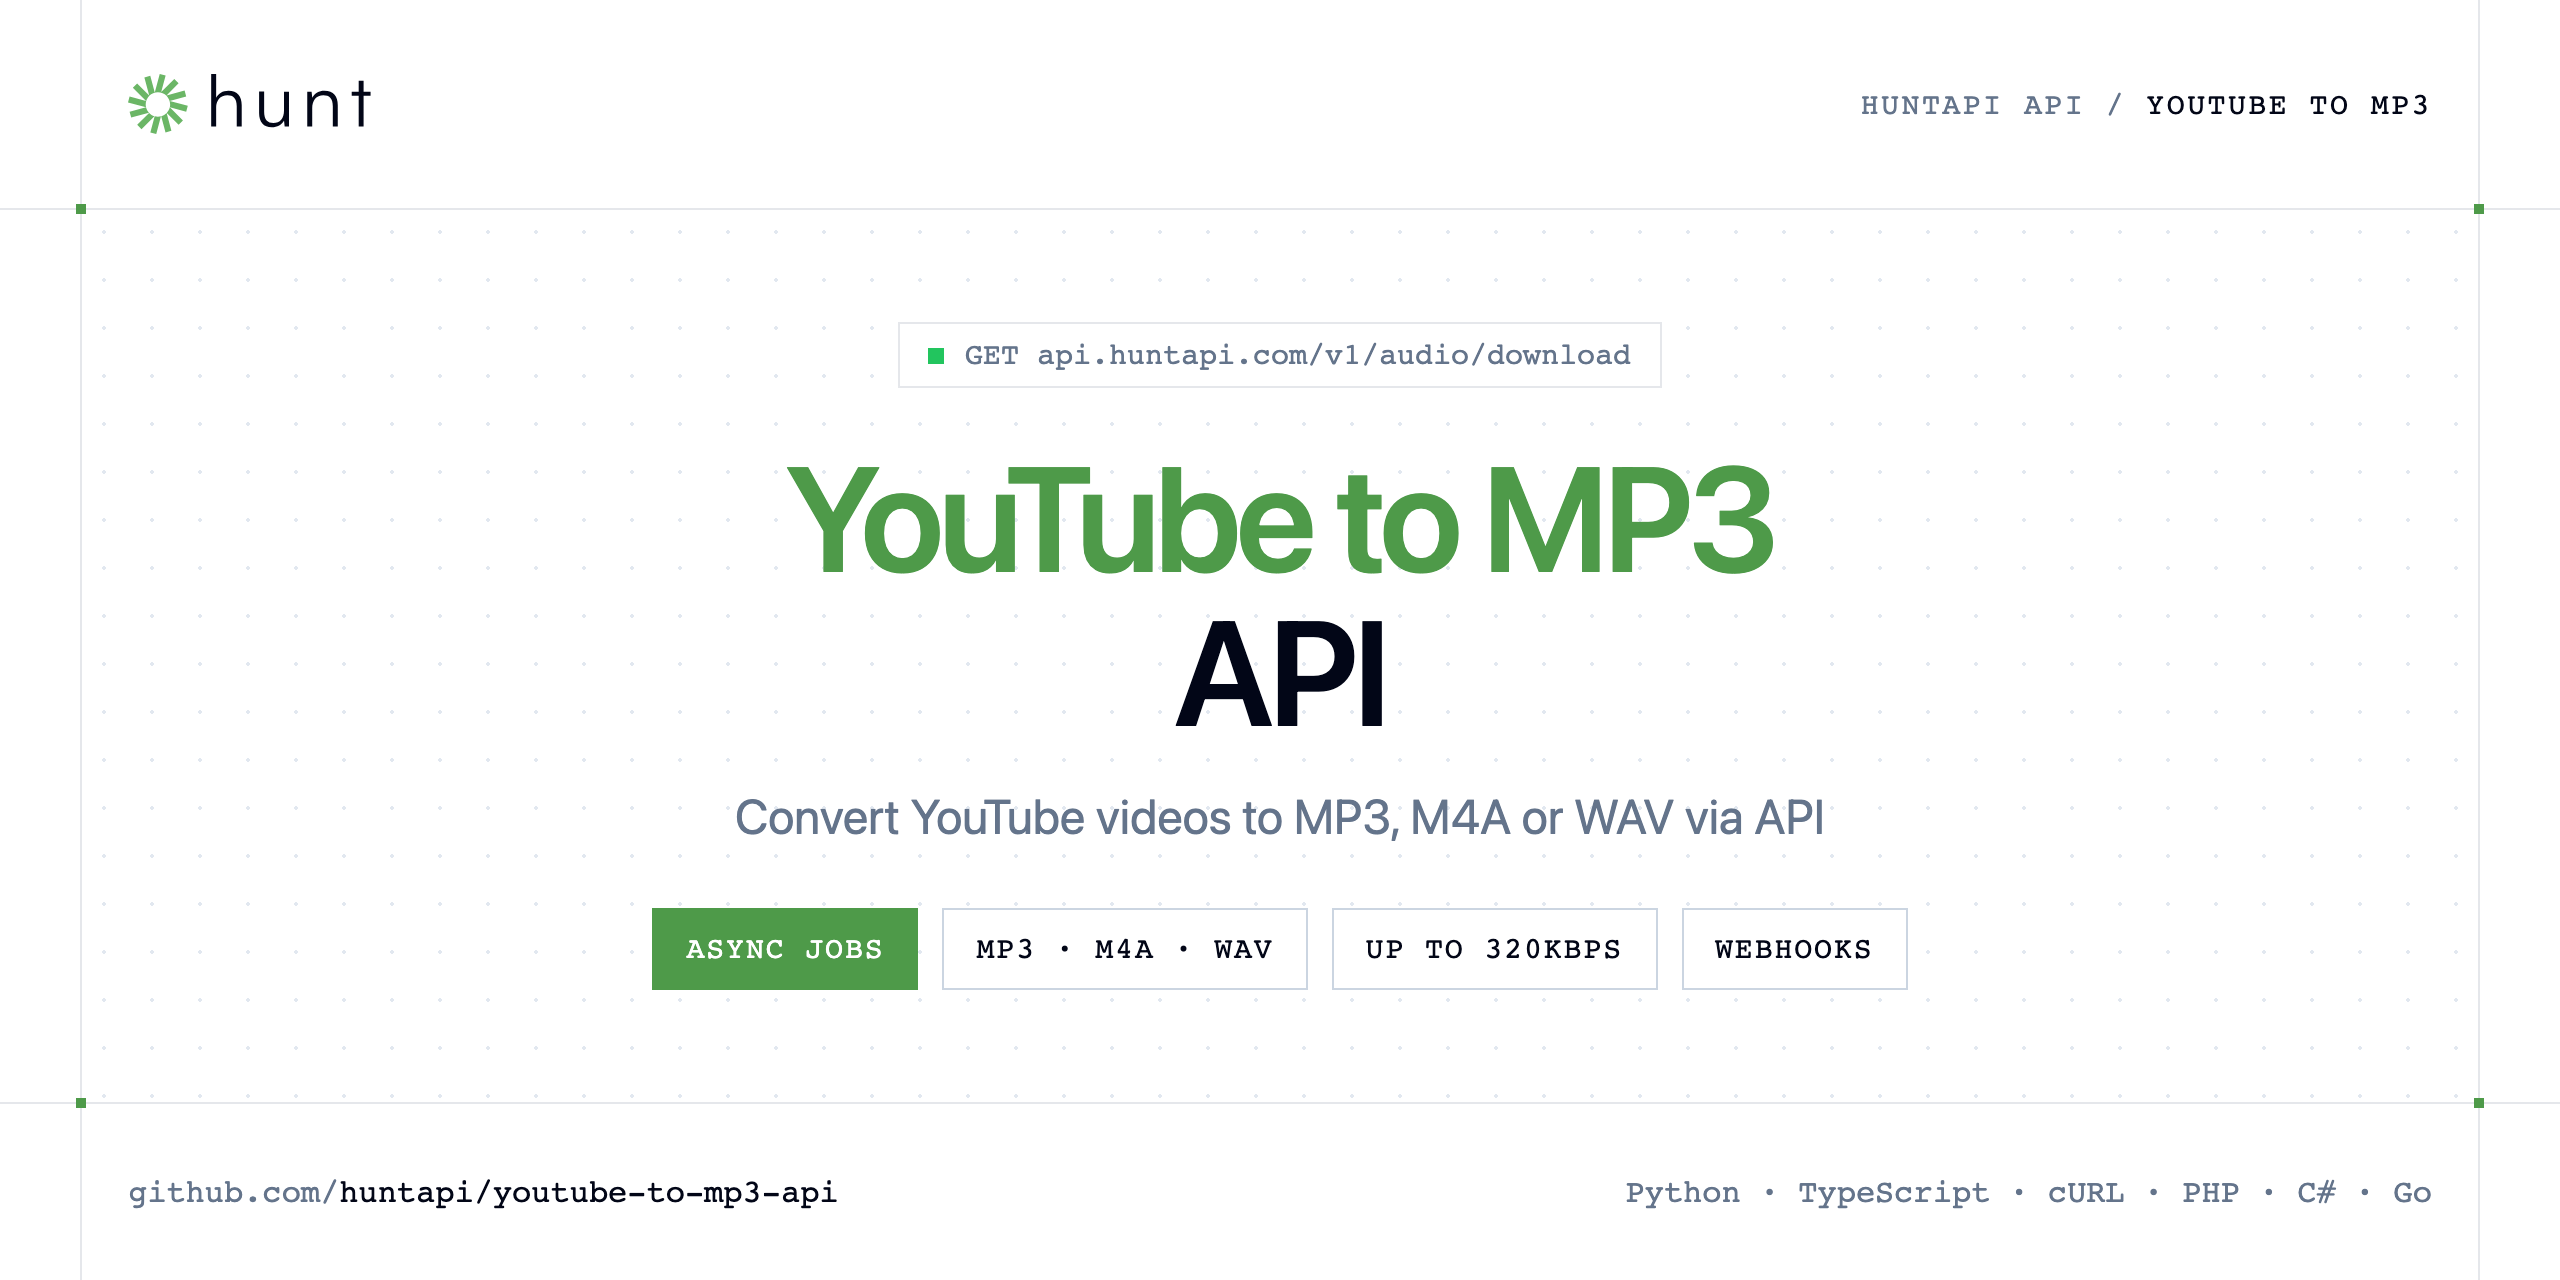
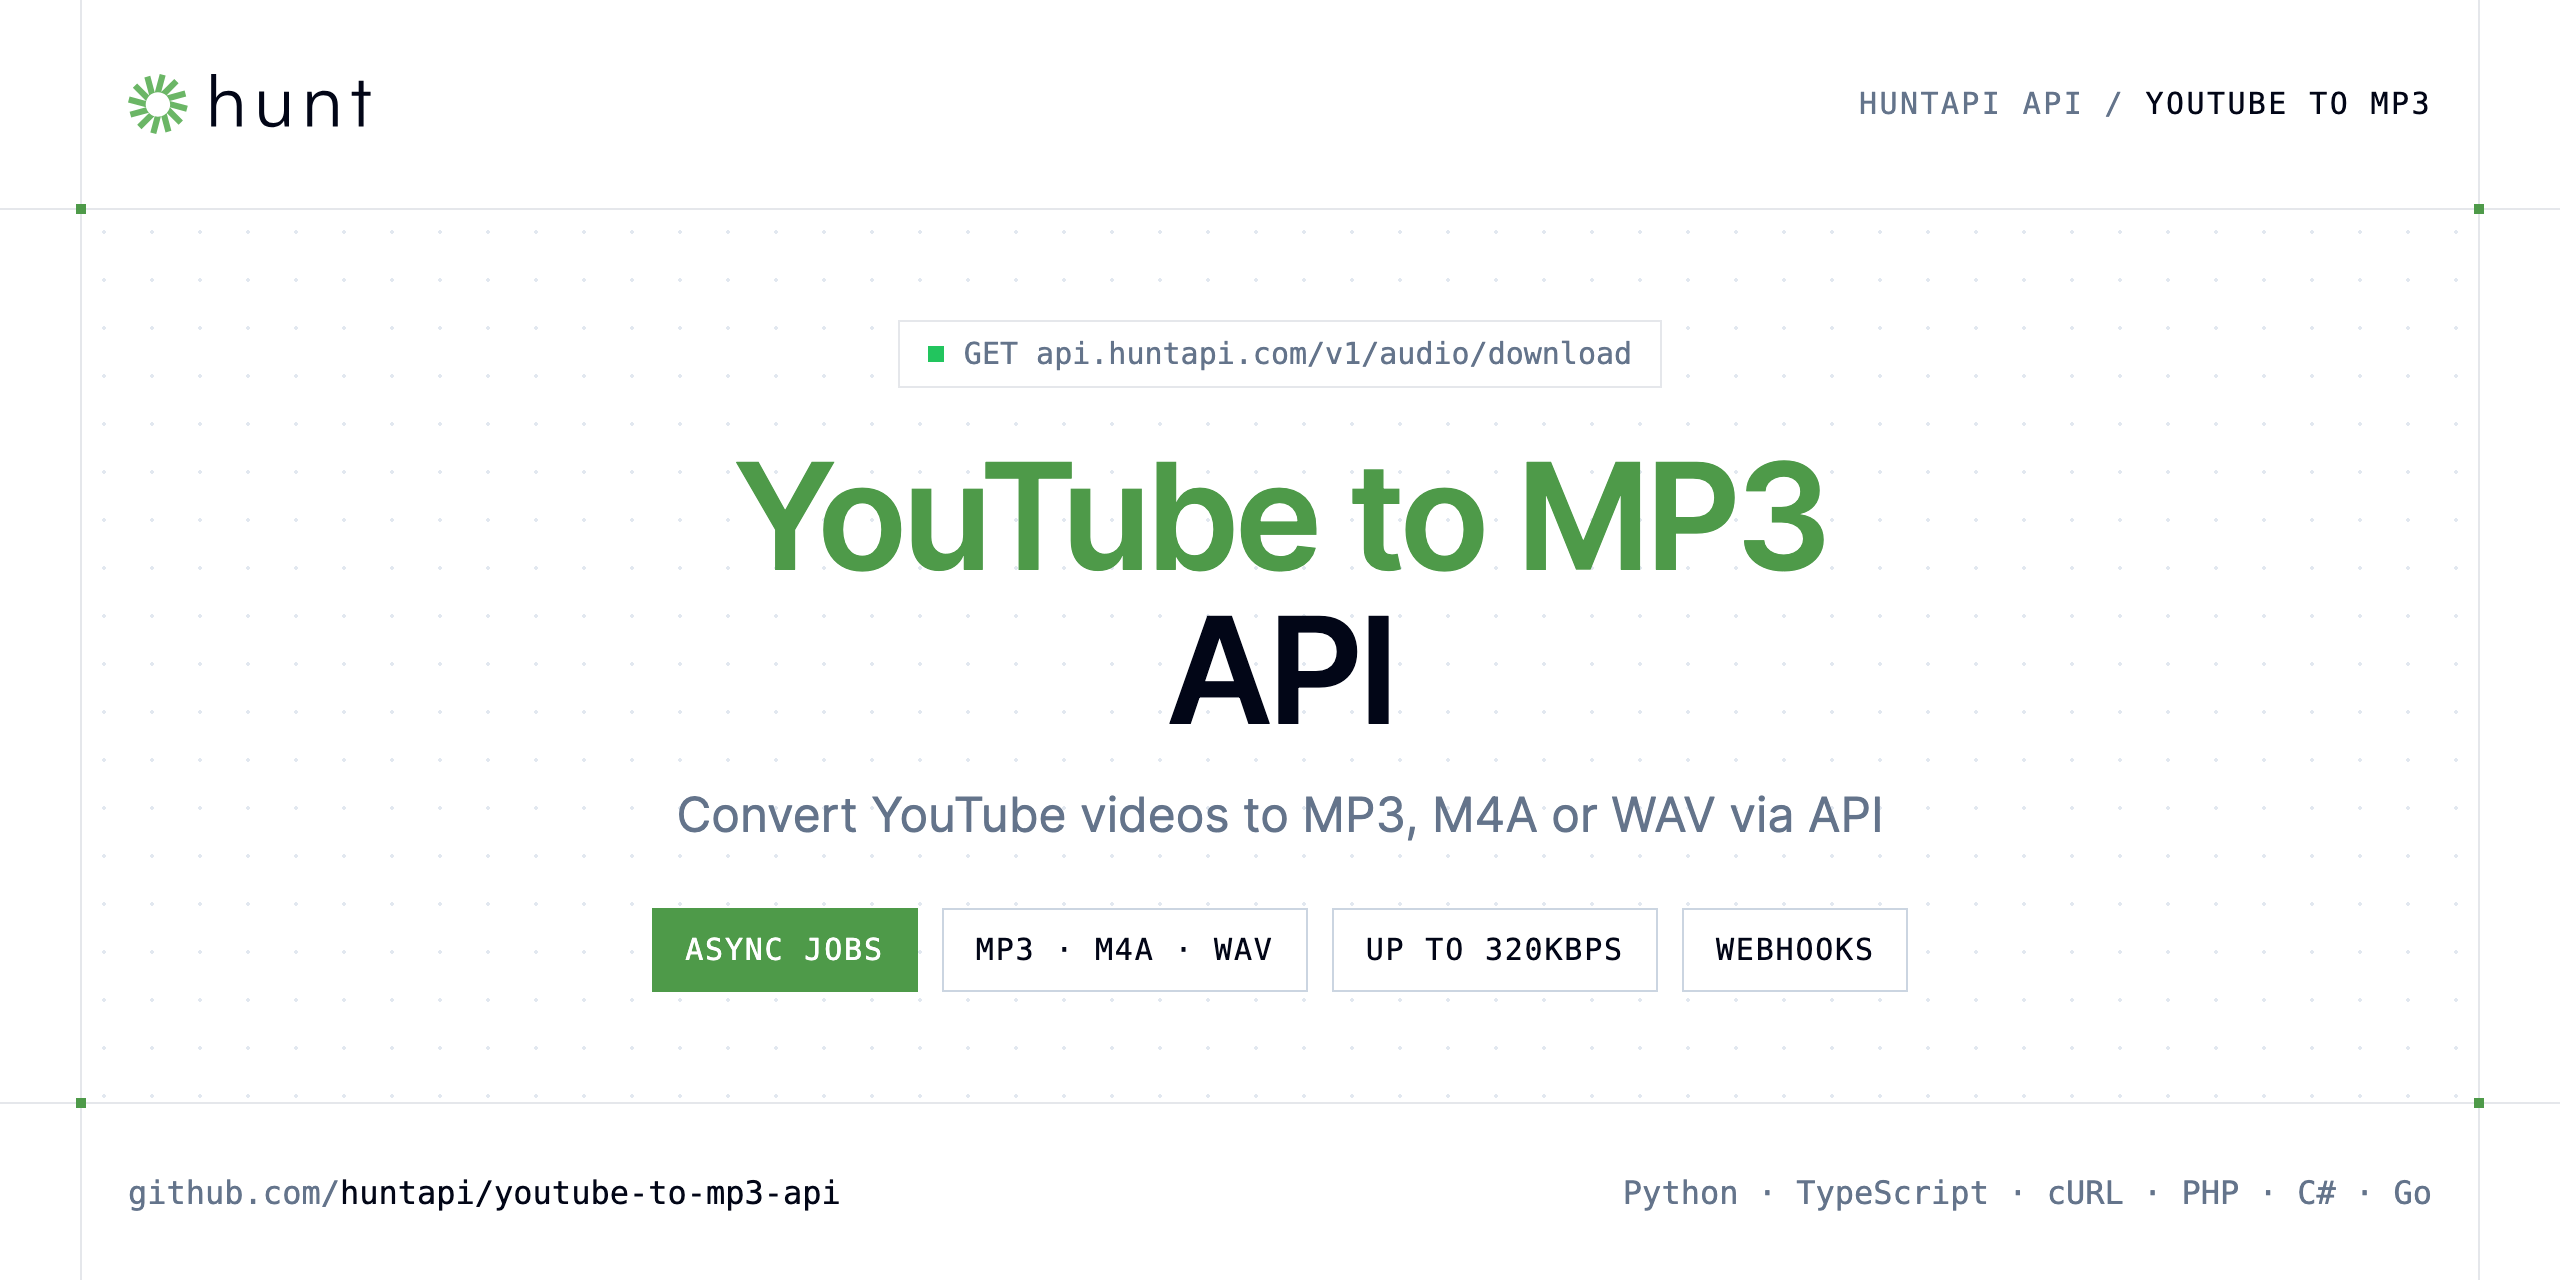
Update YouTube to MP3 API examples and docs

diff --git a/examples/java/AudioDownloadExample.java b/examples/java/AudioDownloadExample.java
@@ -46,14 +46,18 @@ public class AudioDownloadExample {
         HttpResponse<byte[]> response = call("GET", "https://api.huntapi.com/v1/audio/download" + (query.isEmpty() ? "" : "?" + query), null);
         String jobId = field(new String(response.body(), StandardCharsets.UTF_8), "job_id");
         Set<String> done = Set.of("CompletedJob", "Error", "NotFound", "BadRequest");
-        String job;
-        while (true) {
-            Thread.sleep(5000);
+        String job = "";
+        String status = "";
+        for (int i = 0; i < 4320 && !done.contains(status); i++) { // give up after 12 hours
+            Thread.sleep(10000);
             job = new String(call("GET", "https://api.huntapi.com/v1/jobs/" + jobId + "", null).body(), StandardCharsets.UTF_8);
-            String status = field(job, "status");
+            status = field(job, "status");
             System.out.println(status);
-            if (done.contains(status)) break;
         }
         System.out.println(job);
+        if (!status.equals("CompletedJob")) {
+            System.err.println("Job " + jobId + " not completed: " + status);
+            System.exit(1);
+        }
     }
 }

diff --git a/examples/csharp/AudioDownload.cs b/examples/csharp/AudioDownload.cs
@@ -19,13 +19,18 @@ if (!response.IsSuccessStatusCode)
 
 var jobId = JsonDocument.Parse(await response.Content.ReadAsStringAsync()).RootElement.GetProperty("job_id").GetString();
 var done = new HashSet<string> { "CompletedJob", "Error", "NotFound", "BadRequest" };
-JsonElement job;
-while (true)
+JsonElement job = default;
+var status = "";
+for (var i = 0; i < 4320 && !done.Contains(status); i++) // give up after 12 hours
 {
-    await Task.Delay(5000);
-    job = JsonDocument.Parse(await http.GetStringAsync($"https://api.huntapi.com/v1/jobs/{jobId}")).RootElement;
-    var status = job.GetProperty("status").GetString()!;
+    await Task.Delay(10000);
+    job = JsonDocument.Parse(await http.GetStringAsync($"https://api.huntapi.com/v1/jobs/{jobId}")).RootElement; // throws on HTTP errors
+    status = job.GetProperty("status").GetString()!;
     Console.WriteLine(status);
-    if (done.Contains(status)) break;
+}
+if (status != "CompletedJob")
+{
+    Console.Error.WriteLine($"Job {jobId} not completed: {status}");
+    Environment.Exit(1);
 }
 Console.WriteLine(job.GetProperty("result"));

diff --git a/examples/php/audio_download.php b/examples/php/audio_download.php
@@ -34,10 +34,16 @@ $query = http_build_query([
 $response = call('GET', 'https://api.huntapi.com/v1/audio/download' . ($query ? '?' . $query : ''));
 
 $jobId = json_decode($response, true)['job_id'];
-do {
-    sleep(5);
+$job = null;
+for ($i = 0; $i < 4320; $i++) { // give up after 12 hours
+    sleep(10);
     $job = json_decode(call('GET', 'https://api.huntapi.com/v1/jobs/' . $jobId . ''), true);
     echo $job['status'], ' ', $job['progress'] ?? '', PHP_EOL;
-} while (!in_array($job['status'], ['CompletedJob', 'Error', 'NotFound', 'BadRequest'], true));
+    if (in_array($job['status'], ['CompletedJob', 'Error', 'NotFound', 'BadRequest'], true)) break;
+}
 
 echo json_encode($job['result'] ?? null, JSON_PRETTY_PRINT | JSON_UNESCAPED_SLASHES), PHP_EOL;
+if (($job['status'] ?? '') !== 'CompletedJob') {
+    fwrite(STDERR, "Job $jobId not completed: " . ($job['status'] ?? 'unknown') . "\n");
+    exit(1);
+}

diff --git a/examples/go/audio_download.go b/examples/go/audio_download.go
@@ -55,10 +55,11 @@ func main() {
 	json.Unmarshal(data, &submitted)
 	jobID := fmt.Sprint(submitted["job_id"])
 	var job map[string]any
-	for {
-		time.Sleep(5 * time.Second)
+	status := ""
+	for i := 0; i < 4320; i++ { // give up after 12 hours
+		time.Sleep(10 * time.Second)
 		json.Unmarshal(call("GET", "https://api.huntapi.com/v1/jobs/"+jobID+"", nil), &job)
-		status := fmt.Sprint(job["status"])
+		status = fmt.Sprint(job["status"])
 		fmt.Println(status, job["progress"])
 		if status == "CompletedJob" || status == "Error" || status == "NotFound" || status == "BadRequest" {
 			break
@@ -66,4 +67,8 @@ func main() {
 	}
 	out, _ := json.MarshalIndent(job["result"], "", "  ")
 	fmt.Println(string(out))
+	if status != "CompletedJob" {
+		fmt.Fprintf(os.Stderr, "job %s not completed: %s\n", jobID, status)
+		os.Exit(1)
+	}
 }

diff --git a/examples/ruby/audio_download.rb b/examples/ruby/audio_download.rb
@@ -23,12 +23,13 @@ uri.query = URI.encode_www_form('query' => 'https://www.youtube.com/watch?v=Z5YP
 response = call("GET", uri.to_s)
 
 job_id = JSON.parse(response).fetch("job_id")
-job = nil
-loop do
-  sleep 5
+job = {}
+4320.times do # give up after 12 hours
+  sleep 10
   job = JSON.parse(call("GET", "https://api.huntapi.com/v1/jobs/#{job_id}"))
   puts "#{job['status']} #{job['progress']}"
   break if ["CompletedJob", "Error", "NotFound", "BadRequest"].include?(job["status"])
 end
 
 puts JSON.pretty_generate(job["result"] || {})
+abort "Job #{job_id} not completed: #{job['status']}" unless job["status"] == "CompletedJob"

diff --git a/README.md b/README.md
@@ -82,14 +82,20 @@ response.raise_for_status()
 
 job_id = response.json()["job_id"]
 
-# Poll the job until it reaches a final status
-while True:
-    job = requests.get(f"https://api.huntapi.com/v1/jobs/{job_id}", headers=HEADERS, timeout=60).json()
+# Poll the job until it reaches a final status (give up after 12 hours)
+for _ in range(4320):
+    time.sleep(10)
+    poll = requests.get(f"https://api.huntapi.com/v1/jobs/{job_id}", headers=HEADERS, timeout=120)
+    poll.raise_for_status()
+    job = poll.json()
     print(job["status"], job.get("progress"))
     if job["status"] in ("CompletedJob", "Error", "NotFound", "BadRequest"):
         break
-    time.sleep(5)
+else:
+    raise SystemExit(f"Job {job_id} still running after 12 hours")
 
+if job["status"] != "CompletedJob":
+    raise SystemExit("Job failed: " + job["status"])
 print(job.get("result"))
 ```
 
@@ -111,12 +117,16 @@ const { job_id: jobId } = (await response.json()) as { job_id: string };
 
 type Job = { status: string; progress?: number; result?: unknown };
 const done = new Set(["CompletedJob", "Error", "NotFound", "BadRequest"]);
-let job: Job;
-do {
-  await new Promise((r) => setTimeout(r, 5000));
-  job = (await (await fetch(`https://api.huntapi.com/v1/jobs/${jobId}`, { headers })).json()) as Job;
+let job: Job | undefined;
+for (let i = 0; i < 4320; i++) { // give up after 12 hours
+  await new Promise((r) => setTimeout(r, 10000));
+  const poll = await fetch(`https://api.huntapi.com/v1/jobs/${jobId}`, { headers });
+  if (!poll.ok) throw new Error(`HTTP ${poll.status}: ${await poll.text()}`);
+  job = (await poll.json()) as Job;
   console.log(job.status, job.progress);
-} while (!done.has(job.status));
+  if (done.has(job.status)) break;
+}
+if (job?.status !== "CompletedJob") throw new Error(`Job ${jobId} not completed: ${job?.status}`);
 
 console.log(job.result);
 ```
@@ -126,6 +136,8 @@ console.log(job.result);
 1. The request returns `{"job_id": "…"}` immediately.
 2. Poll `GET https://api.huntapi.com/v1/jobs/{id}` every few seconds — `status` goes from `Queued` to `Running` (with `progress` 0–100) to a final value: `CompletedJob`, `Error`, `NotFound`, `BadRequest`.
 3. When `status` is `CompletedJob`, read `result` (download link and metadata).
+
+Jobs on very long videos can take up to 12 hours before they time out: the examples poll every 10 seconds and give up after 12 hours.
 
 Prefer push over polling? Pass `webhook_url` and the result is POSTed to your endpoint.
 
